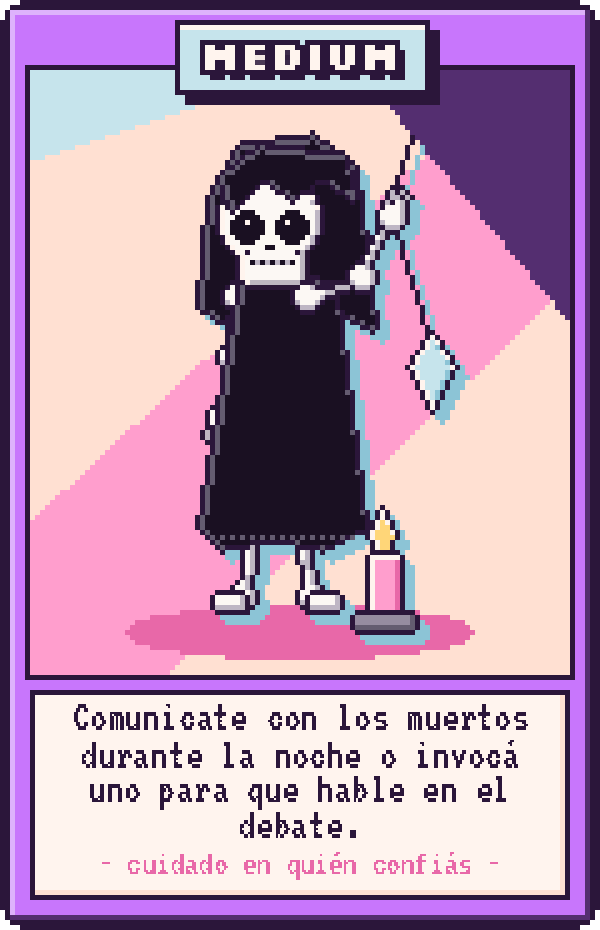
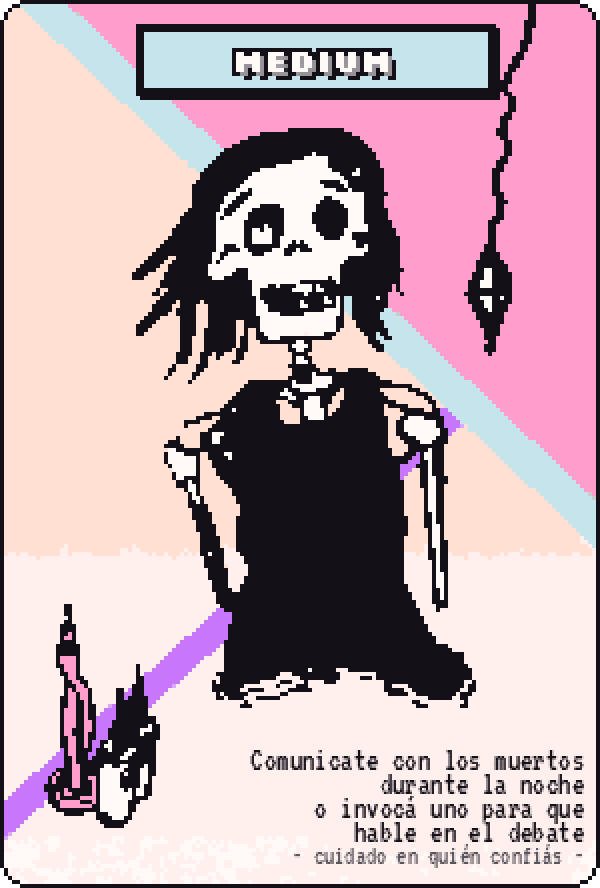
Mafia: prueba con las ilustraciones fieles de la autora en pixel art
Reemplaza las cartas redibujadas (v3) por las pasadas a pixel desde los dibujos
originales (v1). Punto de retorno: rama antes-cartas-fieles-mafia. sw.js v16.

Claude-Session: https://claude.ai/code/session_01QoSXnxvBfAxFxH76wCvKwx

diff --git a/sw.js b/sw.js
@@ -1,6 +1,6 @@
 // Service worker de la Juegoteca.
 // Al agregar un juego propio nuevo, sumá su carpeta a PROPIOS y subí VERSION.
-const VERSION = "v15";
+const VERSION = "v16";
 const CACHE = "juegoteca-" + VERSION;
 const PROPIOS = [
   "./",
